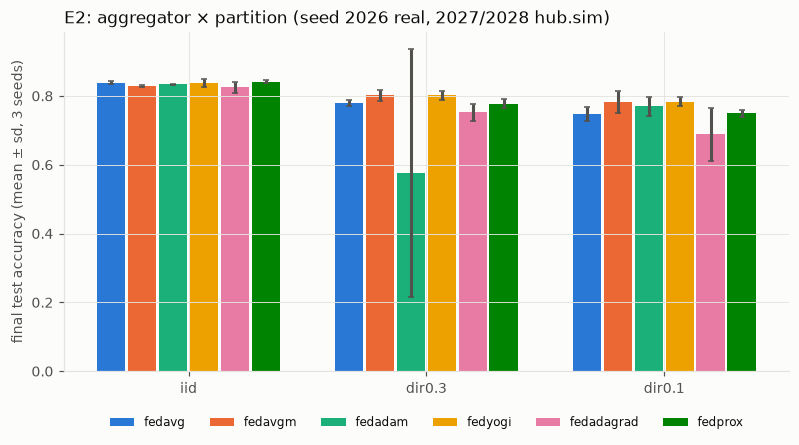
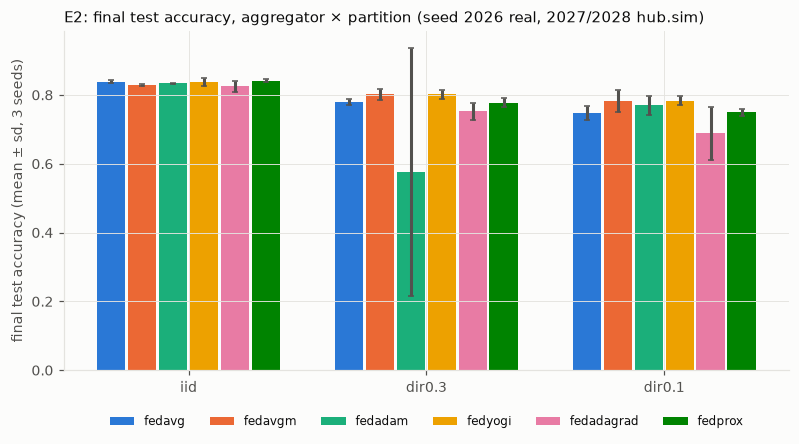
report: E2 worst-site figure

diff --git a/scripts/stage2/plots.py b/scripts/stage2/plots.py
@@ -128,13 +128,14 @@ def fig_e1_final(out: Path) -> None:
     save(fig, "e1_final_and_worst_site", out)
 
 
-def fig_e2_grid(out: Path) -> None:
+def fig_e2_grid(out: Path, key: str = "global/test_acc", fname: str = "e2_final_accuracy_grid",
+                what: str = "final test accuracy") -> None:
     pids = ["iid", "dir0.3", "dir0.1"]
     data = {}
     for pid in pids:
         for agg in AGGS:
             name = f"s2-e1-{pid}-fedavg" if agg == "fedavg" else f"s2-e2-{pid}-{agg}"
-            data[(pid, agg)] = seed_values(name, "global/test_acc")
+            data[(pid, agg)] = seed_values(name, key)
     if not any(data.values()):
         print("e2_grid: no E2 runs yet")
         return
@@ -147,10 +148,15 @@ def fig_e2_grid(out: Path) -> None:
         ax.bar(x + (i - 2.5) * width, means, width=width * 0.92, color=SERIES[i], label=agg, yerr=sds, capsize=2,
                ecolor=TEXT2)
     ax.set_xticks(x, pids)
-    ax.set_ylabel("final test accuracy (mean ± sd, 3 seeds)")
-    ax.set_title("E2: aggregator × partition (seed 2026 real, 2027/2028 hub.sim)", loc="left")
+    ax.set_ylabel(f"{what} (mean ± sd, 3 seeds)")
+    ax.set_title(f"E2: {what}, aggregator × partition (seed 2026 real, 2027/2028 hub.sim)", loc="left",
+                 fontsize=10)
     ax.legend(ncol=6, fontsize=8, loc="upper center", bbox_to_anchor=(0.5, -0.1), frameon=False)
-    save(fig, "e2_final_accuracy_grid", out)
+    save(fig, fname, out)
+
+
+def fig_e2_worst(out: Path) -> None:
+    fig_e2_grid(out, "siteshaped/min_acc", "e2_worst_site_grid", "worst-site accuracy (site-shaped)")
 
 
 def fig_e2_dir01(out: Path) -> None:
@@ -454,7 +460,8 @@ def fig_e7(out: Path) -> None:
     save(fig, "e7_native_vs_hub", out)
 
 
-FIGURES = {"e1_acc": fig_e1_acc, "e1_final": fig_e1_final, "e2_grid": fig_e2_grid, "e2_dir01": fig_e2_dir01,
+FIGURES = {"e1_acc": fig_e1_acc, "e1_final": fig_e1_final, "e2_grid": fig_e2_grid, "e2_worst": fig_e2_worst,
+           "e2_dir01": fig_e2_dir01,
            "e3": fig_e3_breakdown, "e4a_time": fig_e4a_time, "e4a_rss": fig_e4a_rss, "e4b": fig_e4b, "e5": fig_e5,
            "e6": fig_e6_timeline, "e7": fig_e7}
 

diff --git a/REPORT_STAGE2.md b/REPORT_STAGE2.md
@@ -154,6 +154,8 @@ Final test accuracy % (mean ± sd over 3 seeds; in brackets the worst-site accur
 
 Hyperparameters from S3 (tuned on `dir0.3`, validation split): fedavgm η 1.0 (β 0.9), fedadam η 0.03, fedyogi η 0.03, fedadagrad η 0.03, fedprox μ 0.01; the client lr 0.1 is shared.
 
+![e2 worst site](docs/report/stage2/figures/e2_worst_site_grid.png)
+
 ![e2 dir0.1](docs/report/stage2/figures/e2_dir01_accuracy_vs_round.png)
 
 - **Server momentum and Yogi help under label skew.** On `dir0.3` and `dir0.1`, fedavgm and fedyogi gain 2–4 pp of test accuracy over FedAvg (and up to 5 pp on the worst site on `dir0.3`). With IID data they gain nothing and reach the target later (27 and 19 rounds against 16), because their server learning rates were tuned for the skewed case.
